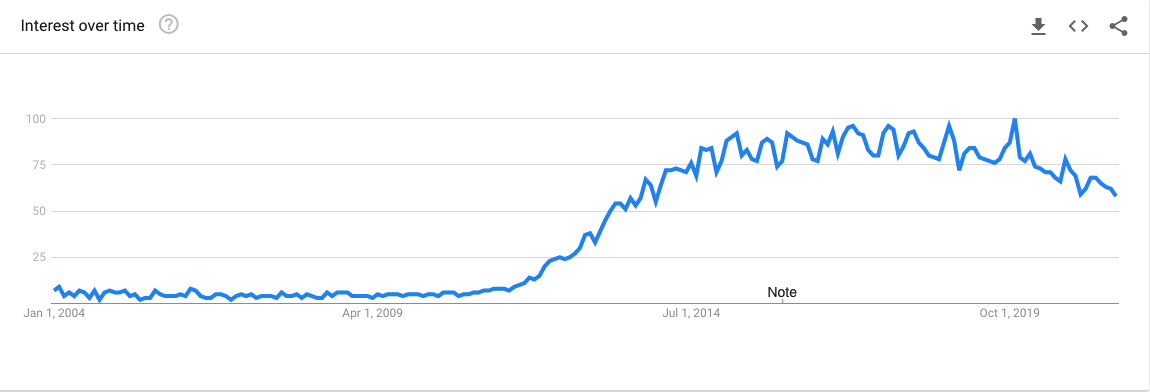
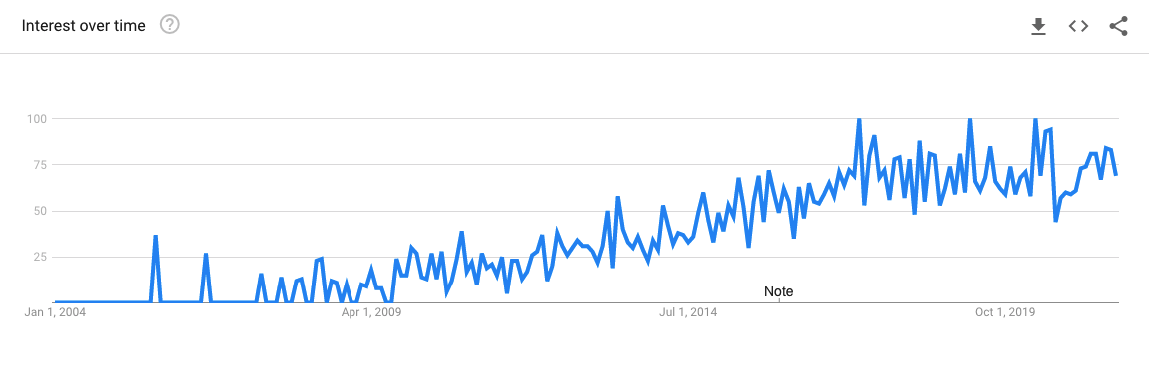
updating data analysis

diff --git a/_projects/becoming-an-analyst.md b/_projects/becoming-an-analyst.md
@@ -10,20 +10,24 @@ _I'm going to start from the start so if you feel like I'm covering things you a
 
 
 #### Why should you improve your analysis skills?
-Simple. It will make your life easier. Whether you work in human resources, product management or a data team, improving your analysis skills will give you leverage to make a bigger impact. Even if it's as simple as using a vlookup to strip away those tedious hours in front of a spreadsheet. For those of you who are wondering how long it takes before sitting in front of a spreadsheet gets tedious, improving your analysis muscle will open up more opportunities for new roles. As the world moves deeper into the data economy, a strong skill set in data analysis will only be more valuable. If the number of times I see the term "big data'' is any indication, data is becoming ubiquitous across all types of work.    
 
-Don't take my word for it, here's the Google Trends chart for the number of searches for big data since 2004
+Simple. It will make your life easier. As the world moves deeper into the data economy, a strong skill set in data analysis will only be more valuable. Don't take my word for it, here's the [Google Trends](https://trends.google.com/trends/explore?date=all&q=learn%20analytics) chart for the number of searches for “learn analytics” worldwide since 2004.
 
 ![image-center](/images/data_analysis/big_data.png){: width="650" }
 
 
+Organisations from all industries are pushing to be more data-driven, as much as that’s a cliche term, it’s still important. If you have the skills to correctly use data to help make decisions, you will only be more of an asset to any team. The media hype around artificial intelligence and machine learning has led some people to believe that you can only make an impact if you build the next AlphaGo. This is not true. Very often the most impactful analysis I’ve seen is in a Google sheet. A simple chart, with clear analysis and a coherent narrative.    
+
+Additionally to improve your analysis muscle you will inadvertently learn how to use some data tools. The tools themselves can be the leverage you need. You can use these tools to increase your own efficiency or that of your team. This additional time opens up more brainspace to work on interesting problems, or to take a long lunch. I won’t judge which you chose but it’s undeniable that either option is beneficial. 
+
+
 #### What should you improve?
-If you're still with me, you agree that improving your data skills will make your life better, great! Now where do we start? 
-I am going to assume you sit somewhere on this "data makes life easier" (DMLE) spectrum:
+If you're still with me, you agree that improving your data skills will make your life better. Great! Now where do we start? There is a world of courses, textbooks, software and videos available for you to use. But unless you’re clear on what you need to improve, this wealth of information is rather useless. To help uncover what to focus on, I’ve created the "data makes life easier" (DMLE) spectrum:   
 
-![image-center](/images/data_analysis/spectrum.jpg){: width="950" }
 
-Irrespective of where you sit on that spectrum when you face an analysis task, your first step will be looking at the data. If you're lucky your data will look like this. 
+![image-center](/images/data_analysis/spectrum.png){: width="950" }
+
+Irrespective of where you sit on that spectrum when you face an analysis task, your first step will be looking at the data. If you're lucky your data will look like this.
 
 ![image-center](/images/data_analysis/lines_clean.jpeg){: width="350" }
 
@@ -32,78 +36,42 @@ More than likely your data will actually look like this.
 ![image-center](/images/data_analysis/lines_messy.png){: width="200" }
 
 
-What an analyst needs to do is use a tool to take the data from a bunch of squiggly lines i.e. numbers and turn it into something that's actionable. Think of yourself as a journalist with technical skills. You are uncovering the story behind the data and reporting it to a broader audience. You want your story to have a clear narrative and be convincing so people will be urged to act.    
+What an analyst needs to do is use a tool to take the data from a bunch of unruly lines and turn it into something that's actionable. Think of yourself as a journalist with technical skills. You are uncovering the story behind the data and reporting it to a broader audience. You want your story to have a clear narrative and be convincing. You want people to act because of your analysis.   
 
-To do this well involves four key steps. 
-
-
-![image-center](/images/data_analysis/flow.jpg){: width="750"}
-
-
-
-### Data —> Tools
-
-The Data —> Tools step will normally take between 70-80% of your effort, so don't be disheartened if this is taking you a long time. Think about it like a delicious meal...    
-How long does it take to grow all the ingredients for your perfect meal?    
-How long did all the ingredients travel along the supply chain?   
-How long did it take to prepare the meal?   
-...and then how long did it take you to eat it?   
-     
-
-Analysis is the same, when you're looking at the data, you're growing the right ingredients, putting them in the right place and preparing them so you have prepared everything to do the analysis effectively and enjoyably. Now that I've taken that analogy too far, let's look at the tools you'll need. I've placed the tools along the DMLE spectrum to help add some context on what you should be thinking about learning and when you should think about learning it. 
-
-![image-center](/images/data_analysis/spectrum-tools.jpg){: width="950" }
-
-There is an abundance of tools and I've only captured some of the bigger names. The idea is that if you learn one of the tools within the sub-category, learning the other tools is easier. 
-
-The one thing I want to call out is __"The Jump"__. How I see it, using spreadsheets allows you do most analytics tasks quite well. Everything from data transformations, forecasting, visualisation and plenty more. This is why I am a really strong proponent for building up spreadsheet skills first. Once you're feeling comfortable in spreadsheets is when I think you have developed the skills needed to make "The Jump". If you sit on the left side of the DMLE spectrum then I would suggest focusing on spreadsheets and not worrying about the jump. I think about it as a jump for a reason and if you haven't fallen in love with the power of spreadsheets, the other tools won't be as beneficial.   
-
-```
-
-There is a big caveat here and that is if you have access to data through a visualisation tool.
-In that case it is important to learn the functionality of the visualisation tool.
-This will help you do analysis within the tool and also extract the data into CSVs.
-You can then extend your analysis in spreadsheets using the CSV data.   
-
-```   
+To do this well involves developing the right understanding in three key skill areas:
+1. __Tools:__ the various software you can use to help clean up the data and simplify it for analysis.
+2. __Technical knowledge:__ the frameworks and models you can lean on when doing analysis
+3. __Practical knowledge:__ I know you don’t want to hear this but unfortunately practice is the best way to build up practical knowledge. Although I have tried to collate some of the key practical things I’ve learned over the years to help create some structure to this. 
 
 
-I'm going to try and point you to the best resources I've found to help you with these skills. With the growth of MOOCs and Online Learning there are a few high quality and mostly free resources to learn these tools. I've called out some of my favourites for each below:   
+I've broken down the required three skills areas by the DMLE spectrum and added where I think each skill sits along the spectrum. 
 
-#### Spreadsheets
-
-When it comes to spreadsheets, I am a big fan of Google Sheets. It's free, easy to use and in my opinion has a better user experience than Microsoft Excel. However, Excel is the more powerful option so if you're working with a really large dataset (over roughly 200,000 rows) then I would suggest excel (if you aren't interested in python). 
-
-##### Courses
-
-* There are not a lot of training materials on Google sheets at the moment, the most comprehensive and free is LearnIt's Youtube lessons. My suggestion would be to find a [random dataset](https://www.kaggle.com/datasets?fileType=csv) and sit down in front of these videos and work on your dataset as you watch the course. The best way to learn is by doing! 
-	* [Begineer](https://www.youtube.com/watch?v=_UWPaPer1MY)
-	* [Advanced](https://www.youtube.com/watch?v=t0B0Tgz0b-0)
-* If you want a guided course on Excel, [Useful Excel for Beginners](https://www.udemy.com/course/useful-excel-for-beginners/) on Udemy is a great quick intro to Excel. It will go over the key topics you need to learn and is free.
+So what do you need to do? 
+1. Pick a point on the spectrum where you think you currently sit
+2. Pick a point on the spectrum where you would like to sit
+3. Start learning the skills. Start with the tools, then move to technical knowledge and finally cement your previous learning by putting them into practice. 
 
 
-#### Data Visualisation
-I don't have a preference on data visualisation tools. I enjoy using most of them although Tableau and PowerBI's free offerings are particularly enticing. If your company uses a specific tool then definitely start there, otherwise cutting your teeth on either Tableau or PowerBI will give you the basic understanding to then pick up most other data viz tools. Again I would recommend picking a random dataset and playing around as you learn! 
+### Tools
 
-##### Courses
 
-* Udacity's free [Tableau course](https://www.udacity.com/course/data-visualization-in-tableau--ud1006) is a really well put together course which will run you through all the details on how to use Tableau.
-* I think Microsoft's own [PowerBI training portal](https://docs.microsoft.com/en-au/learn/powerplatform/power-bi?WT.mc_id=sitertzn_learntab_guidedlearning-card-powerbi) is quite well done and would recommend starting there. 
+![image-center](/images/data_analysis/spectrum-tools.png){: width="950" }
 
-#### SQL
 
-##### Courses
 
-* Udacity's [SQL for Data Analysis](https://www.udacity.com/course/sql-for-data-analysis--ud198) is my favourite and I would strongly recommend running through all four weeks of the course if SQL is your next challenge. 
+### Technical Knowledge
 
-#### Python
-If you've arrived at this stage of the blog, you should first be deciding between python and R. Back in the day when I had to make the same decision, I chose python. Why? In short, python has a less steep learning curve at the beginning and it was easier for me to get my hands dirty quickly. I also believe python is more prevalent across most organisations and tooling systems, which also made it an easier choice for me.
-
-##### Courses
-* If you're going down the python path, the most important library to wrap your head around first is pandas. Udacity's [Data Analysis with Python](https://www.udacity.com/course/data-analyst-nanodegree--nd002) does an awesome job of helping beginners get started. 
-
-### Analysis —> Action
 
 ```
 Coming Soon
 ```
+
+
+
+### Practical Knowledge
+
+
+```
+Coming Soon
+```
+

diff --git a/_projects/tools.md b/_projects/tools.md
@@ -1,0 +1,65 @@
+---
+title: 'Tools'
+date: 2021-07-28 00:00:00
+description: A breakdown of the tools you'll need and where to find the best resources to help you learn them. 
+featured_image: '/images/data_analysis/tools.jpeg'
+---
+
+Using tools to take your data from unruly to structures will normally take 70-80% of your time. So don't be disheartened when you feel like you've been staring at the same spreadsheet error for far too long. Think about it like a delicious meal...    
+* How long does it take to grow all the ingredients for your perfect meal?    
+* How long did all the ingredients travel along the supply chain?   
+* How long did it take to prepare the meal?   
+   ...and then how long did it take you to eat it?   
+     
+
+Analysis is the same, when you're looking at the data, you're growing the right ingredients, putting them in the right place and preparing them so you have prepared everything to do the analysis effectively and enjoyably. Now that I've taken that analogy too far, let's look at the tools you'll need. I've placed the tools along the DMLE spectrum to help add some context on what you should be thinking about learning and when you should think about learning it. 
+
+![image-center](/images/data_analysis/spectrum-tools.png){: width="950" }
+
+There is an abundance of tools and I've only captured some of the bigger names. The idea is that if you learn one of the tools within the sub-category, learning the other tools is easier. 
+
+The one thing I want to call out is __"The Jump"__. How I see it, using spreadsheets allows you do most analytics tasks quite well. Everything from data transformations, forecasting, visualisation and plenty more. This is why I am a really strong proponent for building up spreadsheet skills first. Once you're feeling comfortable in spreadsheets is when I think you have developed the skills needed to make "The Jump". If you sit on the left side of the DMLE spectrum then I would suggest focusing on spreadsheets and not worrying about the jump. I think about it as a jump for a reason and if you haven't fallen in love with the power of spreadsheets, the other tools won't be as beneficial.   
+
+```
+
+There is a big caveat here and that is if you have access to data through a visualisation tool.
+In that case it is important to learn the functionality of the visualisation tool.
+This will help you do analysis within the tool and also extract the data into CSVs.
+You can then extend your analysis in spreadsheets using the CSV data.   
+
+```   
+
+
+I'm going to try and point you to the best resources I've found to help you with these skills. With the growth of MOOCs and Online Learning there are a few high quality and mostly free resources to learn these tools. I've called out some of my favourites for each below:   
+
+#### Spreadsheets
+
+When it comes to spreadsheets, I am a big fan of Google Sheets. It's free, easy to use and in my opinion has a better user experience than Microsoft Excel. However, Excel is the more powerful option so if you're working with a really large dataset (over roughly 200,000 rows) then I would suggest excel (if you aren't interested in python). 
+
+##### Courses
+
+* There are not a lot of training materials on Google sheets at the moment, the most comprehensive and free is LearnIt's Youtube lessons. My suggestion would be to find a [random dataset](https://www.kaggle.com/datasets?fileType=csv) and sit down in front of these videos and work on your dataset as you watch the course. The best way to learn is by doing! 
+	* [Begineer](https://www.youtube.com/watch?v=_UWPaPer1MY)
+	* [Advanced](https://www.youtube.com/watch?v=t0B0Tgz0b-0)
+* If you want a guided course on Excel, [Useful Excel for Beginners](https://www.udemy.com/course/useful-excel-for-beginners/) on Udemy is a great quick intro to Excel. It will go over the key topics you need to learn and is free.
+
+
+#### Data Visualisation
+I don't have a preference on data visualisation tools. I enjoy using most of them although Tableau and PowerBI's free offerings are particularly enticing. If your company uses a specific tool then definitely start there, otherwise cutting your teeth on either Tableau or PowerBI will give you the basic understanding to then pick up most other data viz tools. Again I would recommend picking a random dataset and playing around as you learn! 
+
+##### Courses
+
+* Udacity's free [Tableau course](https://www.udacity.com/course/data-visualization-in-tableau--ud1006) is a really well put together course which will run you through all the details on how to use Tableau.
+* I think Microsoft's own [PowerBI training portal](https://docs.microsoft.com/en-au/learn/powerplatform/power-bi?WT.mc_id=sitertzn_learntab_guidedlearning-card-powerbi) is quite well done and would recommend starting there. 
+
+#### SQL
+
+##### Courses
+
+* Udacity's [SQL for Data Analysis](https://www.udacity.com/course/sql-for-data-analysis--ud198) is my favourite and I would strongly recommend running through all four weeks of the course if SQL is your next challenge. 
+
+#### Python
+If you've arrived at this stage of the blog, you should first be deciding between python and R. Back in the day when I had to make the same decision, I chose python. Why? In short, python has a less steep learning curve at the beginning and it was easier for me to get my hands dirty quickly. I also believe python is more prevalent across most organisations and tooling systems, which also made it an easier choice for me.
+
+##### Courses
+* If you're going down the python path, the most important library to wrap your head around first is pandas. Udacity's [Data Analysis with Python](https://www.udacity.com/course/data-analyst-nanodegree--nd002) does an awesome job of helping beginners get started. 
